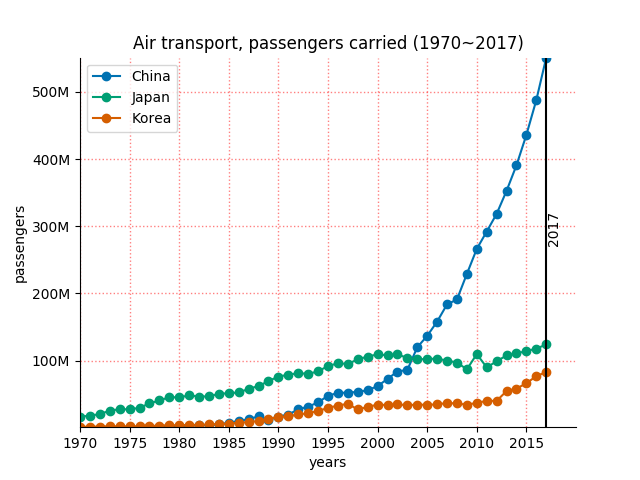
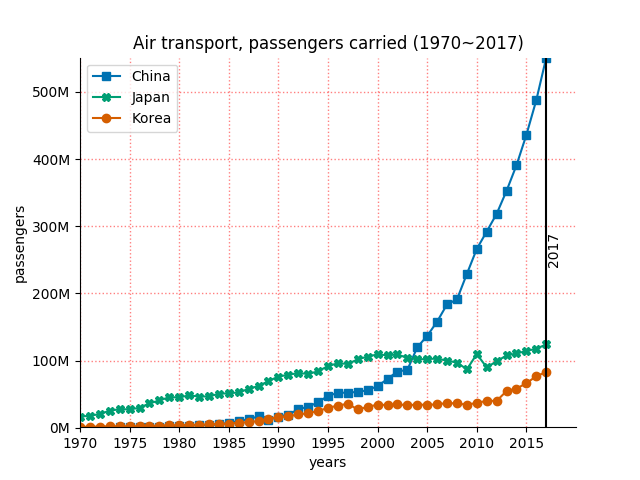
update

diff --git a/data-science-in-python/applied-plotting-charting-data-representation-in-python/assignment4.py b/data-science-in-python/applied-plotting-charting-data-representation-in-python/assignment4.py
@@ -112,6 +112,8 @@ tu_korea = [tuple(x) for x in df_korea[['years', 'passengers']].values]
 
 # year(xval) 별 value(yval) 으로 구분
 labels = ['China', 'Japan', 'Korea']
+# 마커 사용 https://matplotlib.org/3.1.1/api/markers_api.html
+markers = ['-s', '-X', '-o']
 tu_list = []
 tu_list.append(tu_china)
 tu_list.append(tu_japan)
@@ -120,8 +122,7 @@ i = 0
 for tu in tu_list:
     xval = [x[0] for x in tu]
     yval = [x[1] for x in tu]
-    # o- : 서클을 이어가는 마크 사용
-    plt.plot(xval, yval, 'o-', label=labels[i])
+    plt.plot(xval, yval, markers[i], label=labels[i])
     i = i+1
 
 # 범례 표시
@@ -158,3 +159,4 @@ ax.yaxis.set_major_formatter(formatter)
 ax.spines['top'].set_visible(False)
 ax.spines['right'].set_visible(False)
 plt.show()
+# plt.savefig("assignment4.png")
